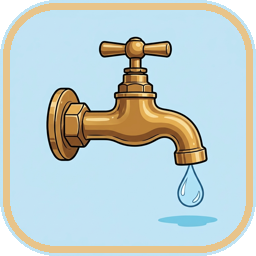
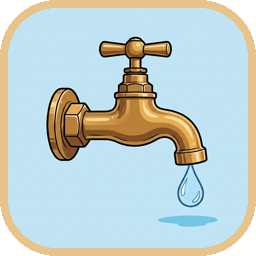
docs: README 视觉调整 — 图标贴边、下载按钮、章节横幅蓄水池母题

Changed region(s): [[0.0, 0.0, 1.0, 1.0]]

diff --git a/README.md b/README.md
@@ -1,6 +1,8 @@
 <p align="center"><img src="assets/readme/hero.svg" width="100%" alt="The Pool Problem — 蓄水池问题"></p>
 
-<p align="center"><img src="assets/readme/icon-rounded.png" width="96" height="96" alt="The Pool Problem App Icon"></p>
+<p align="center"><img src="assets/readme/icon-rounded.png" width="96" height="96" alt="The Pool Problem App Icon">&nbsp;<img src="assets/readme/download-button.svg" width="420" height="96" alt="Download v1.0.0 · GitHub Releases"></p>
+
+<p align="center"><code>macOS MENU BAR · SWIFTUI · MACOS 14+</code></p>
 
 The Pool Problem is a disk attribution and governance tool for developers. It treats your disk as the classic cistern problem — measuring the inflow from every source of regenerable waste (Xcode build products, simulator snapshots, package-manager caches, and more), predicting when the disk will fill up, tracking why space returns after a cleanup, and governing at the source so free space stays at a healthy waterline.
 
@@ -36,9 +38,9 @@ The Pool Problem 是面向开发者的磁盘“归因与治理”工具：把磁
 
 <p align="center"><img src="assets/readme/section-installation.svg" width="100%" alt="Installation · 安装"></p>
 
-Download `PoolProblem-1.0.0.dmg` from [GitHub Releases](https://github.com/wxy/poolproblem/releases/latest).
+Download the latest release from the button above, or browse every version on [GitHub Releases](https://github.com/wxy/poolproblem/releases/latest).
 
-从 [GitHub Releases](https://github.com/wxy/poolproblem/releases/latest) 下载 `PoolProblem-1.0.0.dmg`。
+从上方按钮下载最新版，或在 [GitHub Releases](https://github.com/wxy/poolproblem/releases/latest) 查看全部版本。
 
 1. The DMG is **Apple-notarized** (Developer ID signature + Hardened Runtime), so it can be opened directly.
 
